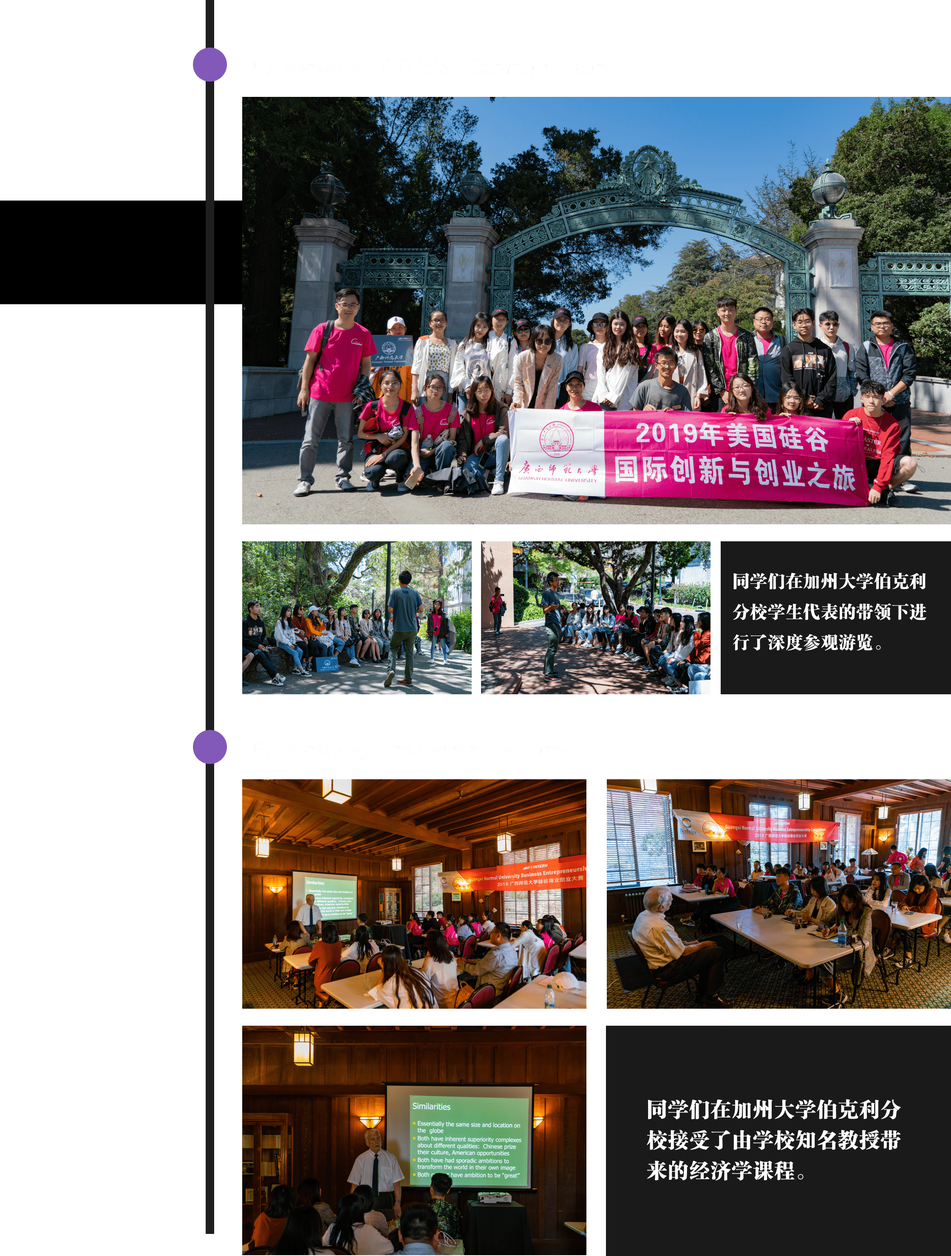
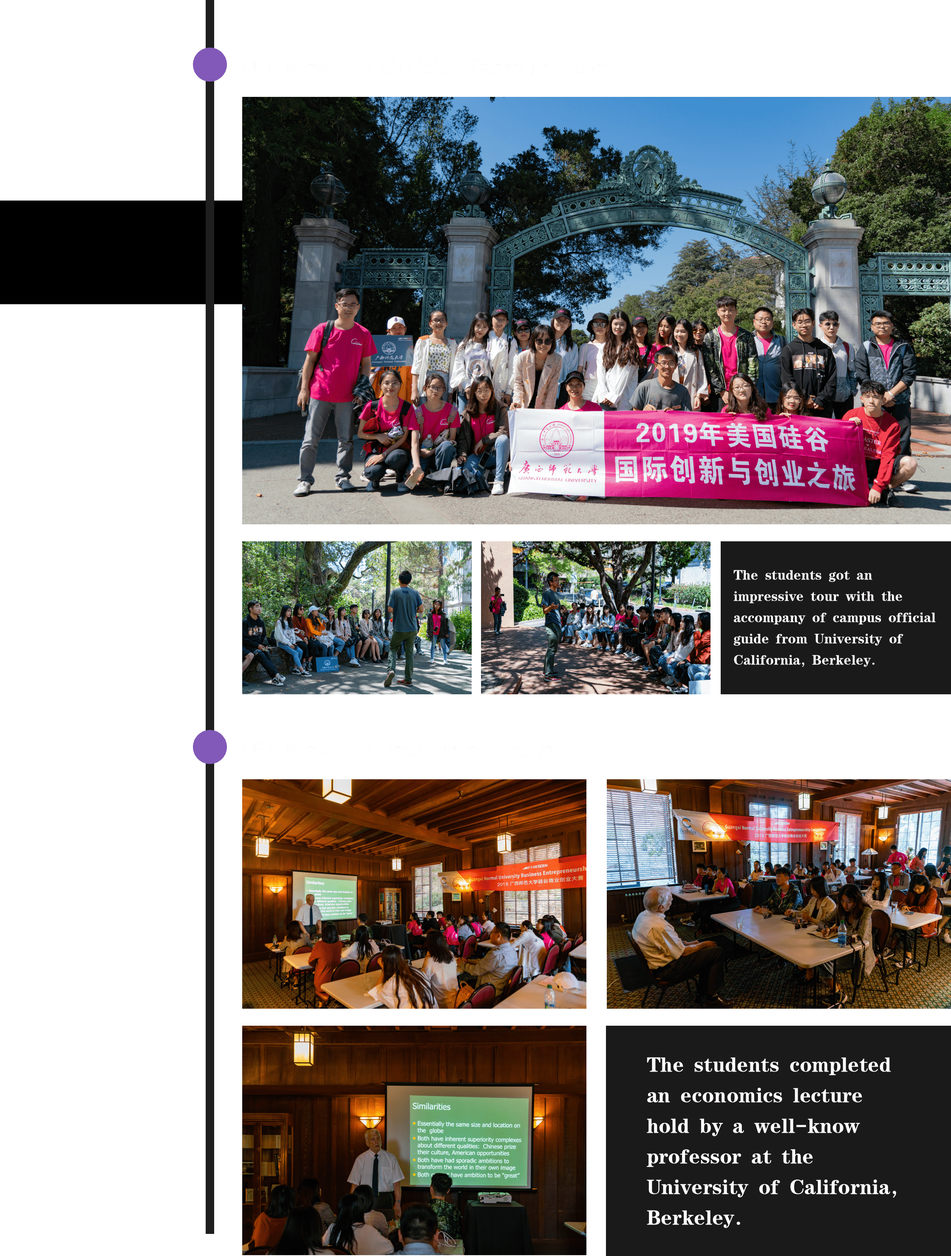
guangxi content

diff --git a/news.html b/news.html
@@ -134,6 +134,22 @@
         </div>
     </div>
     <div class="news-container">
+            <div class="row">
+                    <div class="col-sm-6 news-hover">
+                        <a target="_blank" href="./event/nankai.html">
+                            <img class="news-profile" src="./image/nankai/1.png" />
+                            <h2 class="news-title">2019 BEP Nankai University Inovation and Entrepreneurship Tour</h2>
+                            <p class="news-preview">The two-week background enhancement program to the United States for an inovation and entrepreneurship study tour of Nankai University was successfully completed. Please follow the pace of I-INTERN and take a look at the journey of our outstanding Nankai University faculty and students!</p>
+                        </a>
+                    </div>
+                    <div class="col-sm-6 news-hover">
+                            <a target="_blank" href="./event/guangxi.html">
+                                <img class="news-profile" src="./image/guangxi/gx1.png" />
+                                <h2 class="news-title">2019 BEP Guangxi Normal University Inovation and Entrepreneurship Tour</h2>
+                                <p class="news-preview">In order to implement the spirit of innovation and entrepreneurship education, stimulate entrepreneurial awareness and expand the international vision of innovation and entrepreneurship, I-INTERN promoted the “2019 US Innovation and Entrepreneurship Tour” of Guangxi Normal University.</p>
+                            </a>
+                        </div>
+                </div>
         <div class="row">
             <div class="col-sm-4 news-hover">
                 <a target="_blank" href="https://immigrationforum.org/article/fairness-for-high-skilled-immigrants-act/">

diff --git a/event/guangxi.html b/event/guangxi.html
@@ -118,8 +118,9 @@
         <div class="row">
             <div class="col-sm-6">
                 <br><br>
-                <h1 class="nankai-title">广西师范大学创新创业之旅回顾 <br>共创，进取。</h1>
-                <p>为贯彻落实《国务院办公厅关于深化高校创新创业教育改革的实施意见》精神和学校综合改革及“双一流”建设对创新创业教育工作提出的总体要求，进一步培养大学生创新精神，激发创业意识，提升创新创业能力，拓展创新创业国际化视野，我们促成了广西师范大学的“2019美国硅谷国际创新与创业之旅”，推进了广西师范大学北美创新创业基地的落成。</p>
+                <h1 class="nankai-title">2019 BEP Guangxi Normal University <br>
+                    Inovation and Entrepreneurship Tour：</h1>
+                <p>In order to implement the spirit of innovation and entrepreneurship education, stimulate entrepreneurial awareness and expand the international vision of innovation and entrepreneurship, I-INTERN promoted the “2019 US Innovation and Entrepreneurship Tour” of Guangxi Normal University and promoted the completion of the North American Innovation and Entrepreneurship Base of Guangxi Normal University.</p>
             </div>
             <div class="col-sm-6"> </div>
         </div> <br><br><br>
